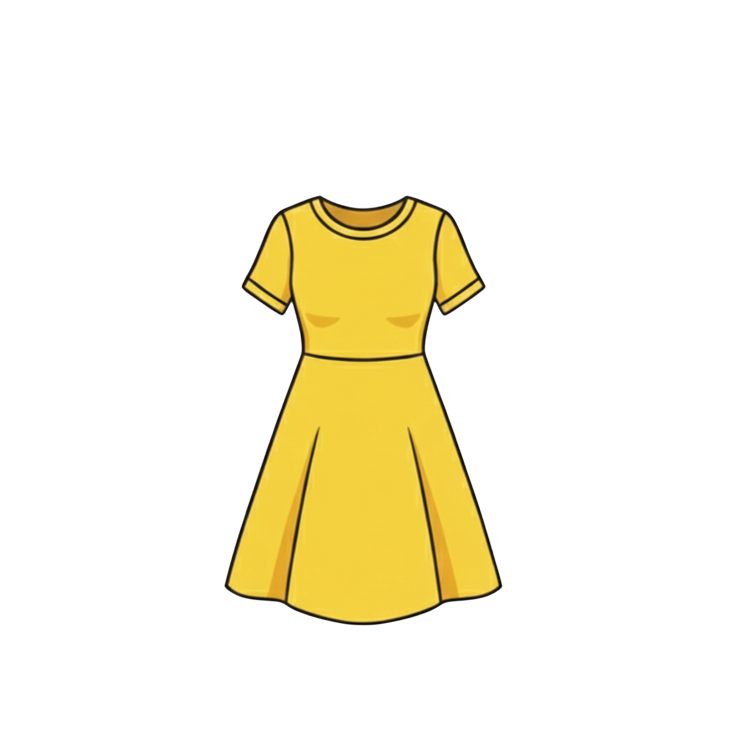
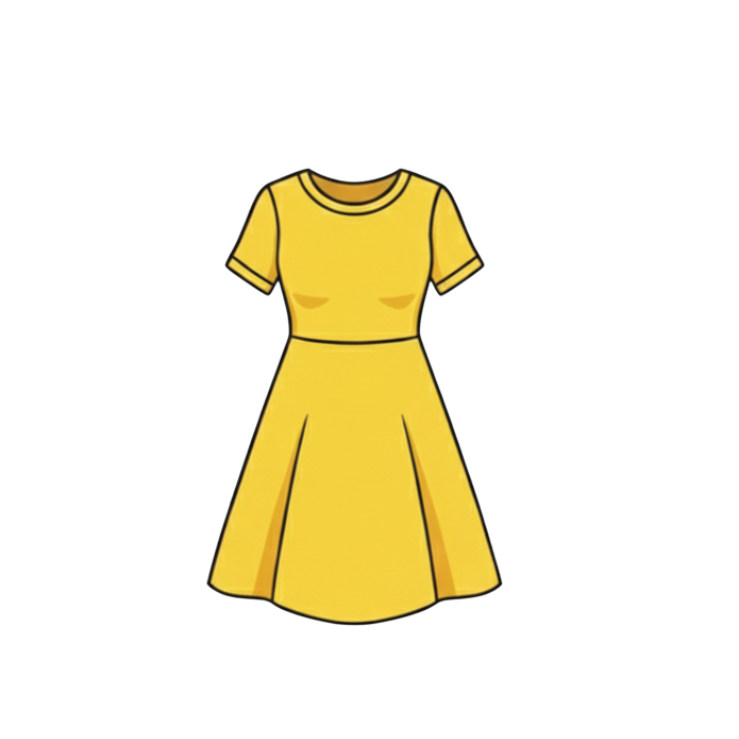
入出庫履歴・仕入管理アイコン更新

Changed region(s): [[0.2801, 0.2179, 0.6847, 0.8714], [0.6225, 0.6225, 0.6536, 0.7158]]

diff --git a/docs/menu_home.html b/docs/menu_home.html
@@ -431,7 +431,7 @@
       <!-- 入出庫履歴 -->
       <a href="#" onclick="navigateToPage('inventory_history'); return false;" class="menu-item" id="menu-inventory_history">
         <div class="menu-item-content">
-          <span class="menu-item-icon icon-analysis"><img src="/images/menu-icons/menu-history.png?v=5" alt=""></span>
+          <span class="menu-item-icon icon-analysis"><img src="/images/menu-icons/menu-history.png?v=6" alt=""></span>
           <span>入出庫履歴</span>
         </div>
       </a>
@@ -447,7 +447,7 @@
       <!-- 仕入管理 -->
       <a href="#" onclick="navigateToPage('purchase'); return false;" class="menu-item" id="menu-purchase">
         <div class="menu-item-content">
-          <span class="menu-item-icon icon-finance"><img src="/images/menu-icons/menu-purchase.png?v=3" alt=""></span>
+          <span class="menu-item-icon icon-finance"><img src="/images/menu-icons/menu-purchase.png?v=4" alt=""></span>
           <span>仕入管理</span>
         </div>
       </a>
